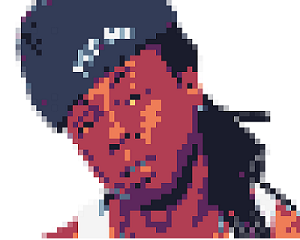
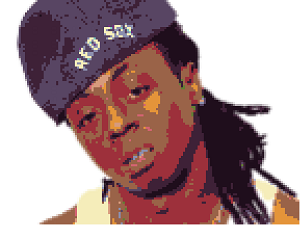
artistpage can now have imgs

diff --git a/routes/artistRoute.js b/routes/artistRoute.js
@@ -1,6 +1,7 @@
 const express = require("express");
 const router = express.Router();
 const SongModel = require("../SongModel");
+const ArtistProfile = require('../ArtistProfile');
 
 //fetches all songs and orders them by artists, num of songs by each artist, and link to each artistpage
 async function organizeAristList() {
@@ -65,6 +66,17 @@ async function getYearsRange(songs) {
   return x.sort();
 }
 
+async function getProfile(a) {
+  const x = await ArtistProfile.find({artist_query: a.artist_query});
+
+  if(x.length == 0) {
+    return undefined
+  }
+  else {
+    return x;
+  }
+}
+
 router.get("/artists", async (req, res) => {
   res.status(200);
 
@@ -98,10 +110,13 @@ router.get("/artists/:id", async (req, res) => {
       explicit: true,
     });
 
+    const profileImg = await getProfile(artistData[0]);
+
     res.render("artistPage", {
       artist_data: artistData,
       has_explicit_song: hasExplicitSong,
       lyrics_years_range: yearsRange,
+      hasProfileImg: profileImg
     });
   }
 });
